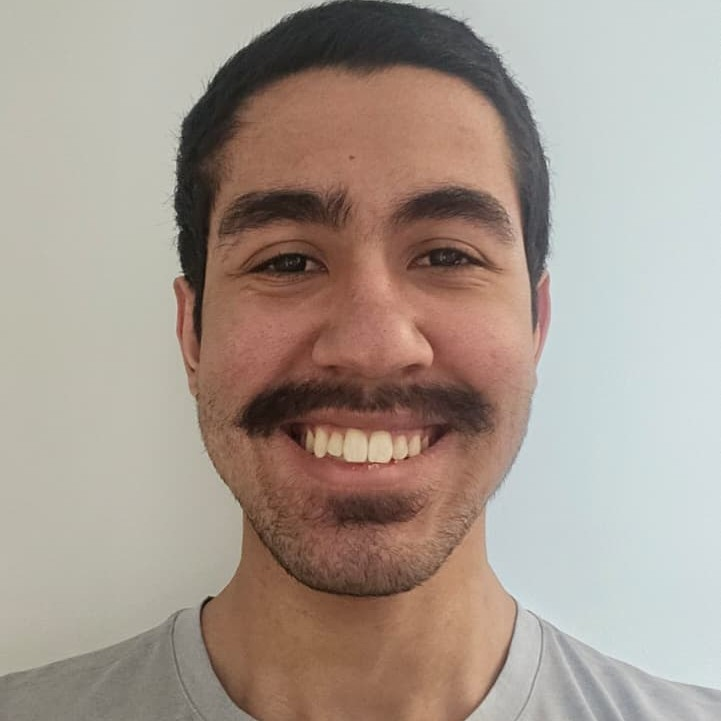
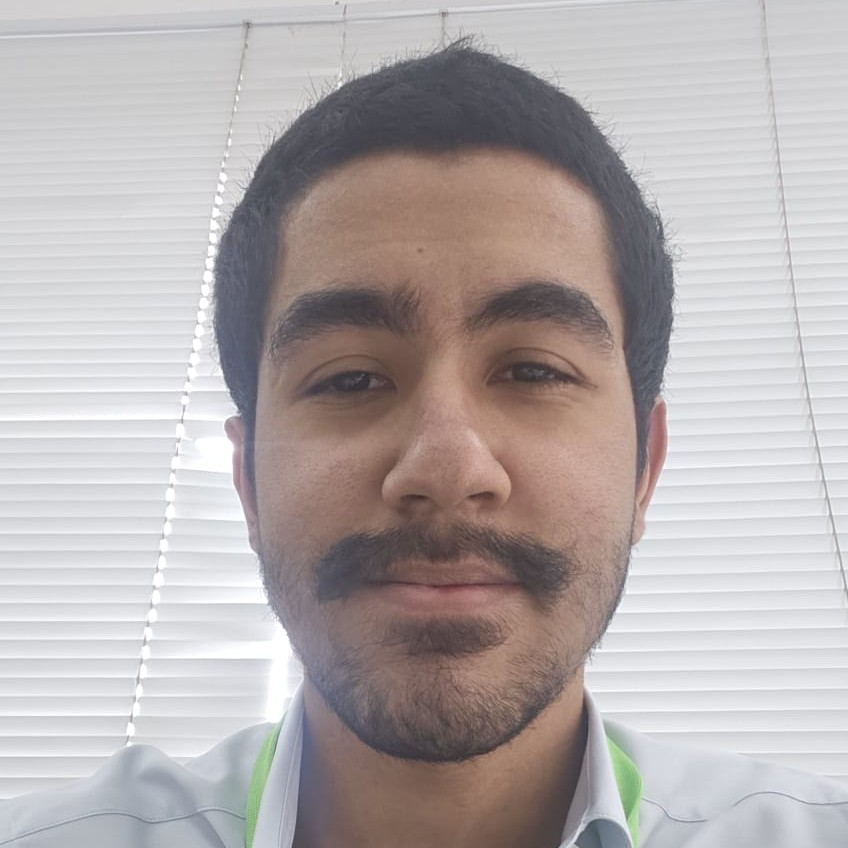
update de foto e mudanças no titulo

diff --git a/index.html b/index.html
@@ -8,7 +8,8 @@
             href="https://cdnjs.cloudflare.com/ajax/libs/font-awesome/6.5.1/css/all.min.css"
         />
         <link rel="stylesheet" href="style.css" />
-        <title>Portifolio João Gabriel</title>
+        <title>João Gabriel | Estagiário em Desenvolvimento de Sistemas | Engenharia de Software</title>
+        <link rel="icon" type="image/svg+xml" href="/assets/favicon.svg">
     </head>
     <body>
         <header class="header">
@@ -31,7 +32,7 @@
                 <h1>Olá, eu sou <span>João Gabriel</span></h1>
                 <h3 class="typing-text">Eu sou <span></span></h3>
                 <p>
-                    Graduado em ADS e graduando em Engenharia de Software.
+                    Graduado em Análise e Desenvolvimento de Sistemas e graduando em Engenharia de Software.
                     Desenvolvedor com foco em Back-End, utilizando Java e Spring
                     Boot para construir sistemas eficientes. Atualmente
                     aprofundando conhecimentos em Python e focado em conquistar

diff --git a/style.css b/style.css
@@ -142,19 +142,19 @@ nav a.active {
 }
 
 .home .home-content {
-    max-width: 700px;
+    max-width: 850px;
 }
 
 .home .home-content h1 {
-    font-size: 6rem;
-    font-weight: 700;
+    font-size: 5rem;
+    font-weight: 600;
     line-height: 1.3;
 }
 
 .home-content h3 {
-    font-size: 4rem;
+    font-size: 3rem;
     margin-bottom: 1rem;
-    font-weight: 700;
+    font-weight: 500;
 }
 
 .home-content p {
